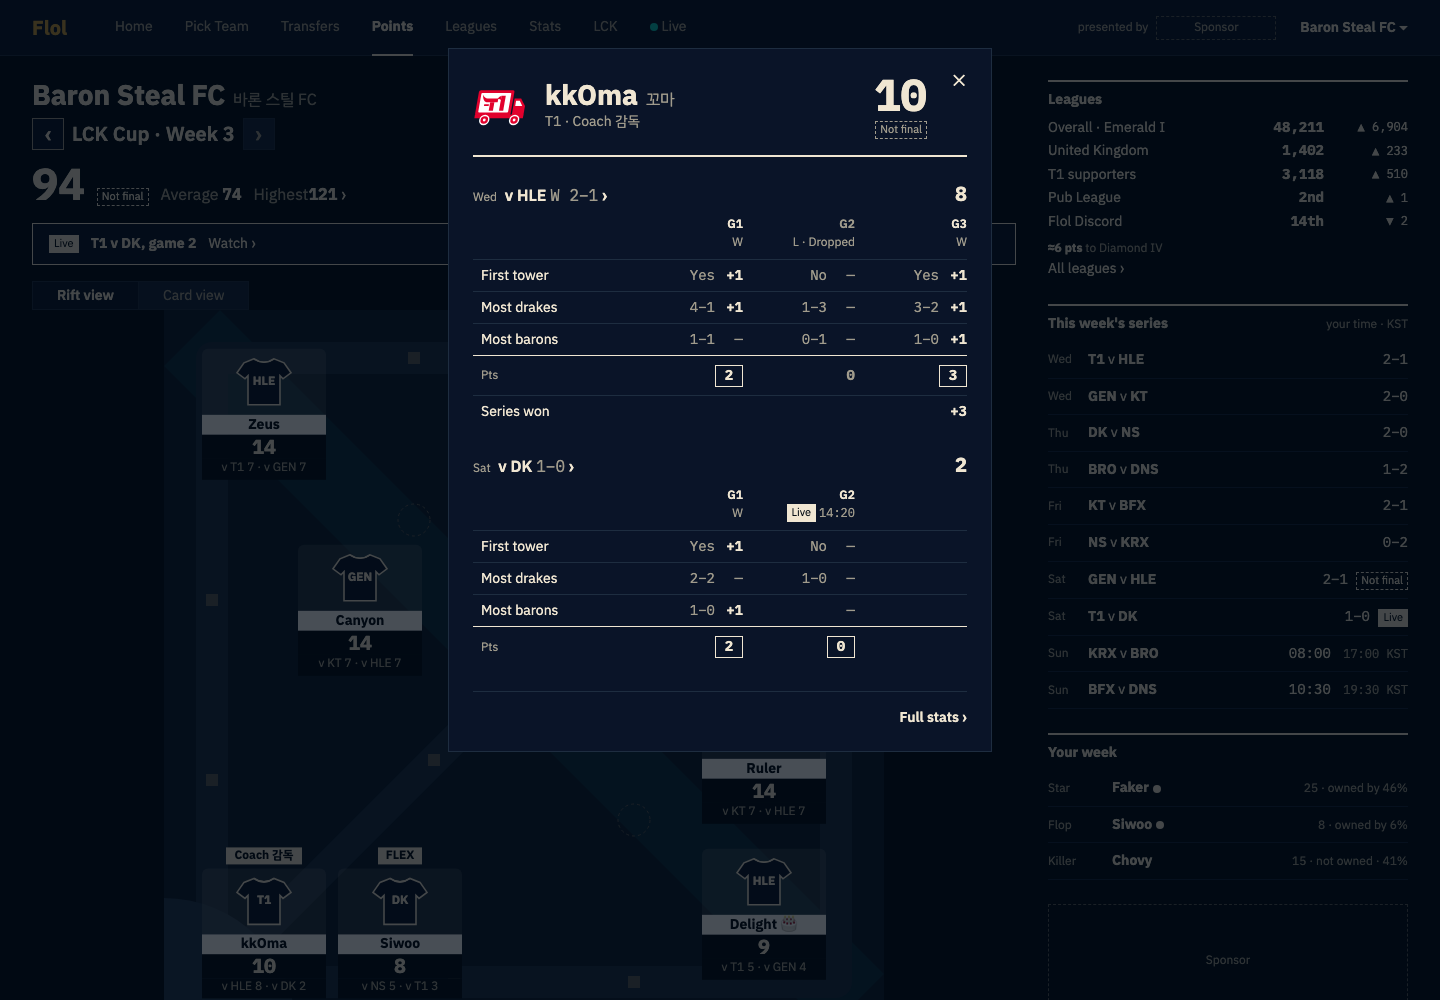
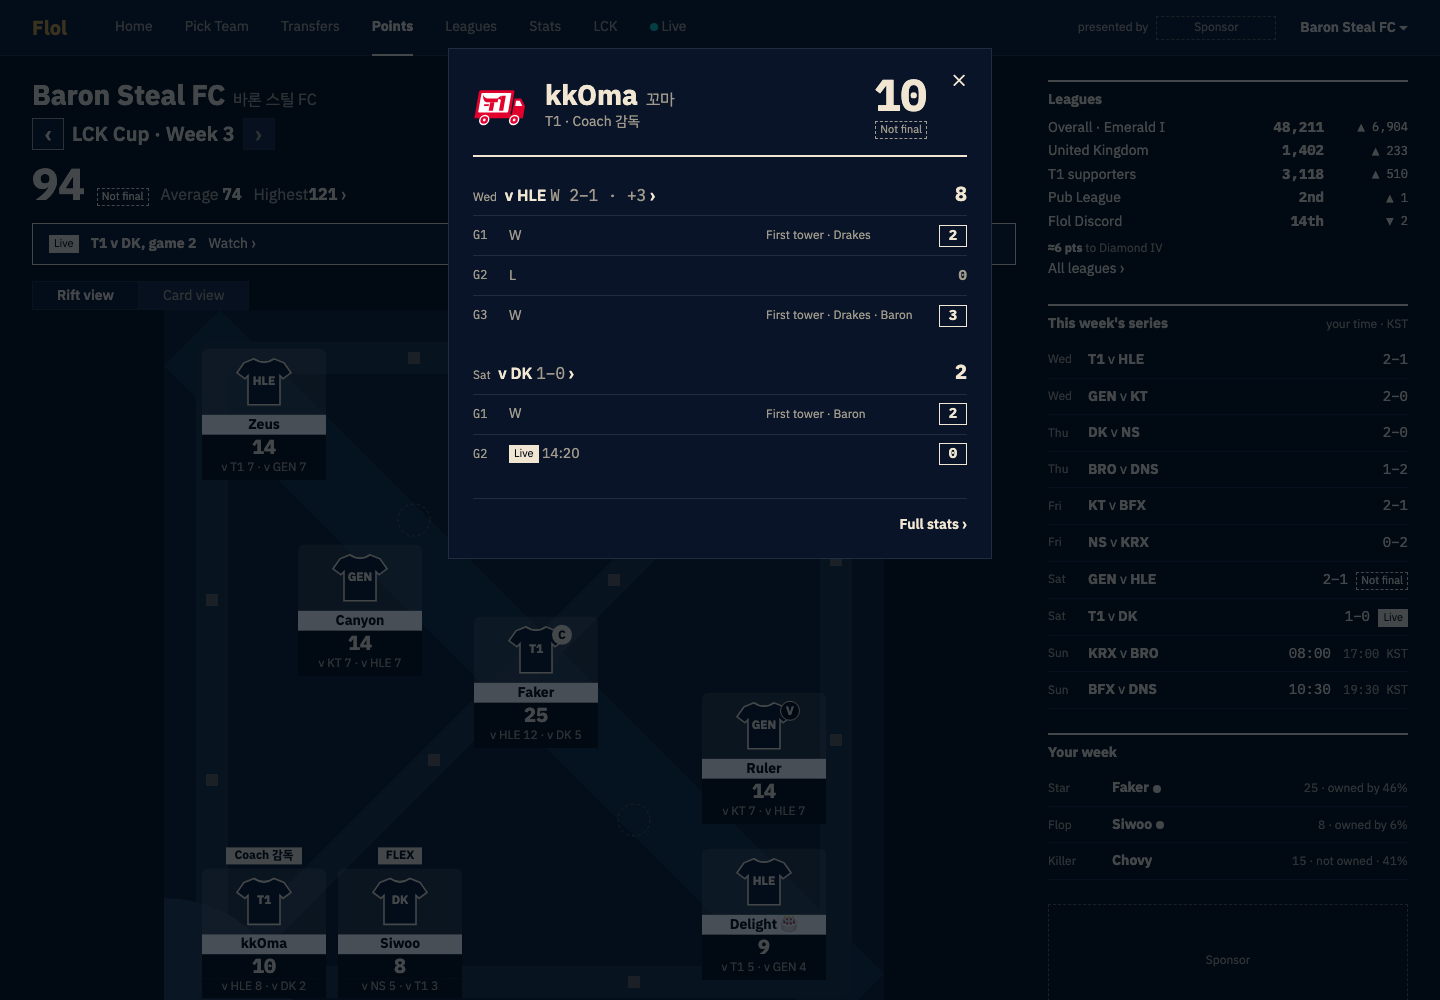
docs: Points breakdown slimmed: one row per game, K/D/A and the bonus lines it earned

diff --git a/docs/design/proposals/2026-11-16-points-breakdown/breakdown.html b/docs/design/proposals/2026-11-16-points-breakdown/breakdown.html
@@ -26,10 +26,14 @@ td:not(.l),th:not(.l){width:112px}
 .foot{display:flex;justify-content:space-between;align-items:center;margin-top:24px;padding-top:16px;border-top:1px solid var(--line)}
 .foot .m{color:var(--mid);font-size:12px} .foot a{color:var(--text);font-weight:600}
 .num{font-family:"IBM Plex Mono"}
- .p.z{color:var(--mid);font-weight:400} .sh .d{color:var(--mid);font-weight:400;font-size:12px;margin-right:4px} .who h2 .hg{font-size:16px;font-weight:400;color:var(--mid);margin-left:8px} th{vertical-align:bottom;line-height:1.5}</style></head><body><div class="dim"></div>
-<div class="sheet" role="dialog" aria-label="Faker's points, Week 3"><span class="x">✕</span>
+ .p.z{color:var(--mid);font-weight:400} .sh .d{color:var(--mid);font-weight:400;font-size:12px;margin-right:4px} .who h2 .hg{font-size:16px;font-weight:400;color:var(--mid);margin-left:8px} th{vertical-align:bottom;line-height:1.5}
+.gr{display:grid;grid-template-columns:28px 1fr 88px 1fr 40px;gap:8px;align-items:center;height:40px;border-top:1px solid var(--line);font-size:14px}
+.gr .n{color:var(--mid);font-size:12px;font-family:"IBM Plex Mono"} .gr .ch b{font-weight:600} .gr .ch .m{color:var(--mid);margin-left:4px}
+.gr .k{font-family:"IBM Plex Mono";text-align:right} .gr .bn{color:var(--mid);font-size:12px} .gr .pt{text-align:right;font-family:"IBM Plex Mono"}
+.gr.off .ch b,.gr.off .k,.gr.off .pt{color:var(--mid);font-weight:400}
+.sh{border-bottom:none}</style></head><body><div class="dim"></div>
+<div class="sheet" role="dialog"><span class="x">✕</span>
 <div class="who"><svg width="56" height="56" viewBox="0 0 120 120" xmlns="http://www.w3.org/2000/svg"><g transform="translate(12 0) skewX(-10)"><rect x="6" y="26" width="76" height="54" rx="4" fill="#E2012D"/><rect x="12" y="32" width="64" height="42" rx="2" fill="#FFFFFF"/><g fill="#E2012D"><path d="M16 36 Q22 45 28 44 L50 44 L50 52 L26 52 Q18 50 16 36 Z"/><rect x="34" y="52" width="9" height="18"/><rect x="22" y="56" width="10" height="4"/><rect x="56" y="38" width="9" height="32"/><path d="M56 38 Q50 39 48 46 Q52 44 56 47 Z"/></g><path d="M85 44 L99 44 L110 60 L110 80 L85 80 Z" fill="#E2012D"/><path d="M89 49 L97 49 L104 60 L89 60 Z" fill="#FFFFFF"/><rect x="6" y="78" width="104" height="8" fill="#E2012D"/><circle cx="28" cy="90" r="11" fill="#FFFFFF"/><circle cx="28" cy="90" r="8" fill="#E2012D"/><circle cx="92" cy="90" r="11" fill="#FFFFFF"/><circle cx="92" cy="90" r="8" fill="#E2012D"/><circle cx="28" cy="90" r="3" fill="#FFFFFF"/><circle cx="92" cy="90" r="3" fill="#FFFFFF"/></g></svg>
 <div><h2>Faker<span class="hg">페이커</span><span class="cm">C</span></h2><div class="m">T1 · Mid</div></div>
-<div class="pts"><b>25</b><div><span class="tag nf">Not final</span> · Average Carry 19</div></div></div>
-<section class="ser"><div class="sh"><a><span class="d">Wed</span> v HLE <span class="m">W 2–1</span> ›</a><span class="sp num">12</span></div><table><tr><th class="l"></th><th class=""><span class="gn">G1</span> Azir<br><span class="m">W</span></th><th class="off"><span class="gn">G2</span> Taliyah<br><span class="m">L · Dropped</span></th><th class=""><span class="gn">G3</span> Galio<br><span class="m">W</span></th></tr><tr><td class="l">Kills</td><td class=""><span class="v">6</span><span class="p">+2</span></td><td class="off"><span class="v">2</span><span class="p z">—</span></td><td class=""><span class="v">4</span><span class="p">+1</span></td></tr><tr><td class="l">Assists</td><td class=""><span class="v">9</span><span class="p">+1</span></td><td class="off"><span class="v">5</span><span class="p">+1</span></td><td class=""><span class="v">14</span><span class="p">+2</span></td></tr><tr><td class="l">Deaths</td><td class=""><span class="v">1</span><span class="p z">—</span></td><td class="off"><span class="v">4</span><span class="p">−1</span></td><td class=""><span class="v">0</span><span class="p z">—</span></td></tr><tr><td class="l">Gold lead at 15</td><td class=""><span class="v">Yes</span><span class="p">+1</span></td><td class="off"><span class="v">Yes</span><span class="p">+1</span></td><td class=""><span class="v">Yes</span><span class="p">+1</span></td></tr><tr><td class="l">Solo kills</td><td class=""><span class="v">1</span><span class="p">+1</span></td><td class="off"><span class="v">0</span><span class="p z">—</span></td><td class=""><span class="v">1</span><span class="p">+1</span></td></tr><tr><td class="l">First blood</td><td class=""><span class="v">No</span><span class="p z">—</span></td><td class="off"><span class="v">Yes</span><span class="p">+1</span></td><td class=""><span class="v">Yes</span><span class="p">+1</span></td></tr><tr><td class="l">Deathless</td><td class=""><span class="v">No</span><span class="p z">—</span></td><td class="off"><span class="v">No</span><span class="p z">—</span></td><td class=""><span class="v">Yes</span><span class="p">+1</span></td></tr><tr class="tot"><td class="l">Pts</td><td class=""><span class="p"><b class="box">5</b></span></td><td class="off"><span class="p"><b class="">2</b></span></td><td class=""><span class="p"><b class="box">7</b></span></td></tr></table></section><section class="ser"><div class="sh"><a><span class="d">Sat</span> v DK <span class="m">1–0</span> ›</a><span class="sp num">5</span></div><table><tr><th class="l"></th><th class=""><span class="gn">G1</span> Orianna<br><span class="m">W</span></th><th class=""><span class="gn">G2</span> Sylas<br><span class="tag live">Live</span> <span class="m num">14:20</span></th><th></th></tr><tr><td class="l">Kills</td><td class=""><span class="v">5</span><span class="p">+1</span></td><td class=""><span class="v">1</span><span class="p z">—</span></td><td></td></tr><tr><td class="l">Assists</td><td class=""><span class="v">8</span><span class="p">+1</span></td><td class=""><span class="v">2</span><span class="p z">—</span></td><td></td></tr><tr><td class="l">Gold lead at 15</td><td class=""><span class="v">Yes</span><span class="p">+1</span></td><td class=""><span class="v"></span><span class="p z">—</span></td><td></td></tr><tr><td class="l">Solo kills</td><td class=""><span class="v">0</span><span class="p z">—</span></td><td class=""><span class="v">1</span><span class="p">+1</span></td><td></td></tr><tr><td class="l">First blood</td><td class=""><span class="v">Yes</span><span class="p">+1</span></td><td class=""><span class="v">No</span><span class="p z">—</span></td><td></td></tr><tr class="tot"><td class="l">Pts</td><td class=""><span class="p"><b class="box">4</b></span></td><td class=""><span class="p"><b class="box">1</b></span></td><td></td></tr></table></section>
+<div class="pts"><b>25</b><div><span class="tag nf">Not final</span> · Average Carry 19</div></div></div><section class="ser"><div class="sh"><a><span class="d">Wed</span> v HLE <span class="m">W 2–1</span> ›</a><span class="sp num">12</span></div><div class="gr"><span class="n">G1</span><span class="ch"><b>Azir</b><span class="m">W</span></span><span class="k">6/1/9</span><span class="bn">Gold · Solo</span><span class="pt"><b class="box">5</b></span></div><div class="gr off"><span class="n">G2</span><span class="ch"><b>Taliyah</b><span class="m">L</span></span><span class="k">2/4/5</span><span class="bn">Gold · First blood</span><span class="pt"><b class="">2</b></span></div><div class="gr"><span class="n">G3</span><span class="ch"><b>Galio</b><span class="m">W</span></span><span class="k">4/0/14</span><span class="bn">Gold · First blood · Solo · Deathless</span><span class="pt"><b class="box">7</b></span></div></section><section class="ser"><div class="sh"><a><span class="d">Sat</span> v DK <span class="m">1–0</span> ›</a><span class="sp num">5</span></div><div class="gr"><span class="n">G1</span><span class="ch"><b>Orianna</b><span class="m">W</span></span><span class="k">5/2/8</span><span class="bn">Gold · First blood</span><span class="pt"><b class="box">4</b></span></div><div class="gr"><span class="n">G2</span><span class="ch"><b>Sylas</b><span class="m"><span class="tag live">Live</span> 14:20</span></span><span class="k">1/0/2</span><span class="bn">Solo</span><span class="pt"><b class="box">1</b></span></div></section>
 <div class="foot"><span></span><a>Full stats ›</a></div></div></body></html>

diff --git a/docs/design/proposals/2026-11-16-points-breakdown/coach.html b/docs/design/proposals/2026-11-16-points-breakdown/coach.html
@@ -26,10 +26,14 @@ td:not(.l),th:not(.l){width:112px}
 .foot{display:flex;justify-content:space-between;align-items:center;margin-top:24px;padding-top:16px;border-top:1px solid var(--line)}
 .foot .m{color:var(--mid);font-size:12px} .foot a{color:var(--text);font-weight:600}
 .num{font-family:"IBM Plex Mono"}
- .p.z{color:var(--mid);font-weight:400} .sh .d{color:var(--mid);font-weight:400;font-size:12px;margin-right:4px} .who h2 .hg{font-size:16px;font-weight:400;color:var(--mid);margin-left:8px} th{vertical-align:bottom;line-height:1.5} .bon td{height:32px;border-top:1px solid var(--line)} .bon td.l{color:var(--text)}</style></head><body><div class="dim"></div>
-<div class="sheet" role="dialog" aria-label="kkOma's points, Week 3"><span class="x">✕</span>
+ .p.z{color:var(--mid);font-weight:400} .sh .d{color:var(--mid);font-weight:400;font-size:12px;margin-right:4px} .who h2 .hg{font-size:16px;font-weight:400;color:var(--mid);margin-left:8px} th{vertical-align:bottom;line-height:1.5}
+.gr{display:grid;grid-template-columns:28px 1fr 88px 1fr 40px;gap:8px;align-items:center;height:40px;border-top:1px solid var(--line);font-size:14px}
+.gr .n{color:var(--mid);font-size:12px;font-family:"IBM Plex Mono"} .gr .ch b{font-weight:600} .gr .ch .m{color:var(--mid);margin-left:4px}
+.gr .k{font-family:"IBM Plex Mono";text-align:right} .gr .bn{color:var(--mid);font-size:12px} .gr .pt{text-align:right;font-family:"IBM Plex Mono"}
+.gr.off .ch b,.gr.off .k,.gr.off .pt{color:var(--mid);font-weight:400}
+.sh{border-bottom:none}</style></head><body><div class="dim"></div>
+<div class="sheet" role="dialog"><span class="x">✕</span>
 <div class="who"><svg width="56" height="56" viewBox="0 0 120 120" xmlns="http://www.w3.org/2000/svg"><g transform="translate(12 0) skewX(-10)"><rect x="6" y="26" width="76" height="54" rx="4" fill="#E2012D"/><rect x="12" y="32" width="64" height="42" rx="2" fill="#FFFFFF"/><g fill="#E2012D"><path d="M16 36 Q22 45 28 44 L50 44 L50 52 L26 52 Q18 50 16 36 Z"/><rect x="34" y="52" width="9" height="18"/><rect x="22" y="56" width="10" height="4"/><rect x="56" y="38" width="9" height="32"/><path d="M56 38 Q50 39 48 46 Q52 44 56 47 Z"/></g><path d="M85 44 L99 44 L110 60 L110 80 L85 80 Z" fill="#E2012D"/><path d="M89 49 L97 49 L104 60 L89 60 Z" fill="#FFFFFF"/><rect x="6" y="78" width="104" height="8" fill="#E2012D"/><circle cx="28" cy="90" r="11" fill="#FFFFFF"/><circle cx="28" cy="90" r="8" fill="#E2012D"/><circle cx="92" cy="90" r="11" fill="#FFFFFF"/><circle cx="92" cy="90" r="8" fill="#E2012D"/><circle cx="28" cy="90" r="3" fill="#FFFFFF"/><circle cx="92" cy="90" r="3" fill="#FFFFFF"/></g></svg>
 <div><h2>kkOma<span class="hg">꼬마</span></h2><div class="m">T1 · Coach 감독</div></div>
-<div class="pts"><b>10</b><div><span class="tag nf">Not final</span></div></div></div>
-<section class="ser"><div class="sh"><a><span class="d">Wed</span> v HLE <span class="m">W 2–1</span> ›</a><span class="sp num">8</span></div><table><tr><th class="l"></th><th class=""><span class="gn">G1</span><br><span class="m">W</span></th><th class="off"><span class="gn">G2</span><br><span class="m">L · Dropped</span></th><th class=""><span class="gn">G3</span><br><span class="m">W</span></th></tr><tr><td class="l">First tower</td><td class=""><span class="v">Yes</span><span class="p">+1</span></td><td class="off"><span class="v">No</span><span class="p z">—</span></td><td class=""><span class="v">Yes</span><span class="p">+1</span></td></tr><tr><td class="l">Most drakes</td><td class=""><span class="v">4–1</span><span class="p">+1</span></td><td class="off"><span class="v">1–3</span><span class="p z">—</span></td><td class=""><span class="v">3–2</span><span class="p">+1</span></td></tr><tr><td class="l">Most barons</td><td class=""><span class="v">1–1</span><span class="p z">—</span></td><td class="off"><span class="v">0–1</span><span class="p z">—</span></td><td class=""><span class="v">1–0</span><span class="p">+1</span></td></tr><tr class="tot"><td class="l">Pts</td><td class=""><span class="p"><b class="box">2</b></span></td><td class="off"><span class="p"><b class="">0</b></span></td><td class=""><span class="p"><b class="box">3</b></span></td></tr><tr class="bon"><td class="l">Series won</td><td></td><td></td><td><span class="p">+3</span></td></tr></table></section><section class="ser"><div class="sh"><a><span class="d">Sat</span> v DK <span class="m">1–0</span> ›</a><span class="sp num">2</span></div><table><tr><th class="l"></th><th class=""><span class="gn">G1</span><br><span class="m">W</span></th><th class=""><span class="gn">G2</span><br><span class="tag live">Live</span> <span class="m num">14:20</span></th><th></th></tr><tr><td class="l">First tower</td><td class=""><span class="v">Yes</span><span class="p">+1</span></td><td class=""><span class="v">No</span><span class="p z">—</span></td><td></td></tr><tr><td class="l">Most drakes</td><td class=""><span class="v">2–2</span><span class="p z">—</span></td><td class=""><span class="v">1–0</span><span class="p z">—</span></td><td></td></tr><tr><td class="l">Most barons</td><td class=""><span class="v">1–0</span><span class="p">+1</span></td><td class=""><span class="v"></span><span class="p z">—</span></td><td></td></tr><tr class="tot"><td class="l">Pts</td><td class=""><span class="p"><b class="box">2</b></span></td><td class=""><span class="p"><b class="box">0</b></span></td><td></td></tr></table></section>
+<div class="pts"><b>10</b><div><span class="tag nf">Not final</span></div></div></div><section class="ser"><div class="sh"><a><span class="d">Wed</span> v HLE <span class="m">W 2–1 · +3</span> ›</a><span class="sp num">8</span></div><div class="gr"><span class="n">G1</span><span class="ch"><b></b><span class="m" style="margin-left:0">W</span></span><span class="k"></span><span class="bn">First tower · Drakes</span><span class="pt"><b class="box">2</b></span></div><div class="gr off"><span class="n">G2</span><span class="ch"><b></b><span class="m" style="margin-left:0">L</span></span><span class="k"></span><span class="bn"></span><span class="pt"><b class="">0</b></span></div><div class="gr"><span class="n">G3</span><span class="ch"><b></b><span class="m" style="margin-left:0">W</span></span><span class="k"></span><span class="bn">First tower · Drakes · Baron</span><span class="pt"><b class="box">3</b></span></div></section><section class="ser"><div class="sh"><a><span class="d">Sat</span> v DK <span class="m">1–0</span> ›</a><span class="sp num">2</span></div><div class="gr"><span class="n">G1</span><span class="ch"><b></b><span class="m" style="margin-left:0">W</span></span><span class="k"></span><span class="bn">First tower · Baron</span><span class="pt"><b class="box">2</b></span></div><div class="gr"><span class="n">G2</span><span class="ch"><b></b><span class="m" style="margin-left:0"><span class="tag live">Live</span> 14:20</span></span><span class="k"></span><span class="bn"></span><span class="pt"><b class="box">0</b></span></div></section>
 <div class="foot"><span></span><a>Full stats ›</a></div></div></body></html>
